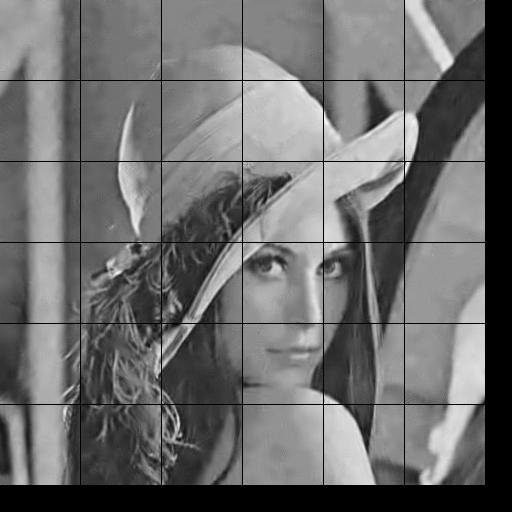
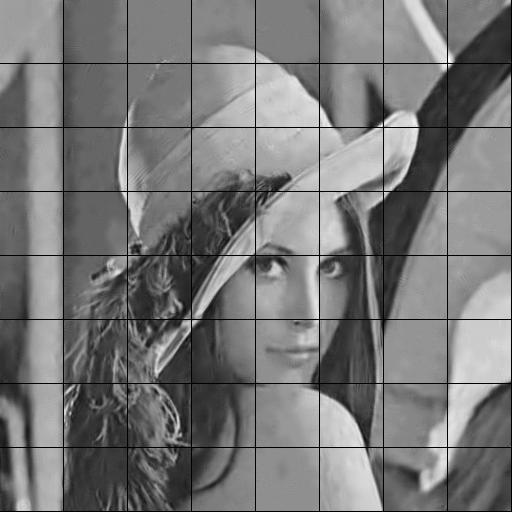
dimension modification

diff --git a/ImageDenoiser/src/denoiser/ImageUtils.java b/ImageDenoiser/src/denoiser/ImageUtils.java
@@ -106,30 +106,47 @@ public class ImageUtils {
         return result;
     }
     
-    public static List<ImageZone> decoupeImage(BufferedImage X, int W, int n) {
+    public static List<ImageZone> decoupeImage(BufferedImage image, int W, int pas) {
         List<ImageZone> zones = new ArrayList<>();
-        int width = X.getWidth();
-        int height = X.getHeight();
 
-        for (int y = 0; y <= height - W; y += n) {
-            for (int x = 0; x <= width - W; x += n) {
-                BufferedImage subImage = new BufferedImage(W, W, BufferedImage.TYPE_BYTE_GRAY);
-                WritableRaster subRaster = subImage.getRaster();
-                Raster originalRaster = X.getRaster();
+        int width = image.getWidth();
+        int height = image.getHeight();
 
-                for (int j = 0; j < W; j++) {
-                    for (int i = 0; i < W; i++) {
-                        int val = originalRaster.getSample(x + i, y + j, 0);
-                        subRaster.setSample(i, j, 0, val);
-                    }
-                }
-
-                zones.add(new ImageZone(subImage, x, y));
+        for (int y = 0; y <= height - W; y += pas) {
+            for (int x = 0; x <= width - W; x += pas) {
+                BufferedImage sub = image.getSubimage(x, y, W, W);
+                zones.add(new ImageZone(sub, x, y));
             }
+        }
+
+        // Ajout des zones de bordures droites (si image non divisible)
+        if ((width - W) % pas != 0) {
+            int x = width - W;
+            for (int y = 0; y <= height - W; y += pas) {
+                BufferedImage sub = image.getSubimage(x, y, W, W);
+                zones.add(new ImageZone(sub, x, y));
+            }
+        }
+
+        if ((height - W) % pas != 0) {
+            int y = height - W;
+            for (int x = 0; x <= width - W; x += pas) {
+                BufferedImage sub = image.getSubimage(x, y, W, W);
+                zones.add(new ImageZone(sub, x, y));
+            }
+        }
+
+        // Coin bas droit si nécessaire
+        if ((width - W) % pas != 0 && (height - W) % pas != 0) {
+            BufferedImage sub = image.getSubimage(width - W, height - W, W, W);
+            zones.add(new ImageZone(sub, width - W, height - W));
         }
 
         return zones;
     }
+
+
+
 
 
     
@@ -143,47 +160,39 @@ public class ImageUtils {
         return result;
     }
     
-    public static BufferedImage recomposeFromZones(List<ImageZone> zones, int fullWidth, int fullHeight) {
-        int[][] sum = new int[fullHeight][fullWidth];
-        int[][] count = new int[fullHeight][fullWidth];
+    public static BufferedImage recomposeFromZones(List<ImageZone> zones, int width, int height) {
+        BufferedImage result = new BufferedImage(width, height, BufferedImage.TYPE_BYTE_GRAY);
+        WritableRaster raster = result.getRaster();
+
+        double[][] sum = new double[height][width];
+        int[][] count = new int[height][width];
 
         for (ImageZone zone : zones) {
             BufferedImage img = zone.getImage();
-            Raster raster = img.getRaster();
-            int[] pos = zone.getPosition();
-            int offsetX = pos[0];
-            int offsetY = pos[1];
+            int offsetX = zone.getPosition()[0];
+            int offsetY = zone.getPosition()[1];
+            Raster zoneRaster = img.getRaster();
 
-            int w = img.getWidth();
-            int h = img.getHeight();
-
-            for (int y = 0; y < h; y++) {
-                for (int x = 0; x < w; x++) {
-                    int val = raster.getSample(x, y, 0);
-                    int globalX = offsetX + x;
-                    int globalY = offsetY + y;
-
-                    if (globalX < fullWidth && globalY < fullHeight) {
-                        sum[globalY][globalX] += val;
-                        count[globalY][globalX]++;
-                    }
+            for (int y = 0; y < img.getHeight(); y++) {
+                for (int x = 0; x < img.getWidth(); x++) {
+                    int val = zoneRaster.getSample(x, y, 0);
+                    sum[offsetY + y][offsetX + x] += val;
+                    count[offsetY + y][offsetX + x]++;
                 }
             }
         }
 
-        BufferedImage result = new BufferedImage(fullWidth, fullHeight, BufferedImage.TYPE_BYTE_GRAY);
-        WritableRaster resultRaster = result.getRaster();
-
-        for (int y = 0; y < fullHeight; y++) {
-            for (int x = 0; x < fullWidth; x++) {
-                int val = (count[y][x] == 0) ? 0 : (sum[y][x] / count[y][x]);
-                resultRaster.setSample(x, y, 0, val);
+        for (int y = 0; y < height; y++) {
+            for (int x = 0; x < width; x++) {
+                int val = (count[y][x] > 0) ? (int) Math.round(sum[y][x] / count[y][x]) : 0;
+                raster.setSample(x, y, 0, Math.max(0, Math.min(255, val)));
             }
         }
 
-        result.setData(resultRaster);
+        result.setData(raster);
         return result;
     }
+
 
 
 

diff --git a/ImageDenoiser/src/denoiser/Main.java b/ImageDenoiser/src/denoiser/Main.java
@@ -13,14 +13,14 @@ public class Main {
     public static void main(String[] args) {
         try {
             // 1. Chargement de l'image originale
-            BufferedImage original = loadImage("ImageDenoiser/images_sources/lena.jpeg");
+            BufferedImage original = loadImage("ImageDenoiser/images_sources/image.jpeg");
 
             // 2. Ajout de bruit
-            double sigma = 25.0;
+            double sigma = 20.0;
             BufferedImage noisy = ImageUtils.noising(original, sigma);
-            saveImage(noisy, "ImageDenoiser/images_bruitees/lena_noisy_sigma" + (int) sigma + ".jpeg");
+            saveImage(noisy, "ImageDenoiser/images_bruitees/image_noisy_sigma" + (int) sigma + ".jpeg");
 
-            localDenoising(8, sigma, noisy, original);
+            localDenoising(9, sigma, noisy, original);
            
 
         } catch (Exception e) {
@@ -105,12 +105,20 @@ public class Main {
     }
     
     public static void localDenoising(int s, double sigma, BufferedImage noisy, BufferedImage original) throws IOException {
-        int W = 64;
-        int pas = 64;
+        int height = noisy.getHeight();
+        int width = noisy.getWidth();
 
+        int minDim = Math.min(width, height);
+
+        // Taille des sous-images = moitié de la plus petite dimension
+        int W = minDim / 2;
+        // Pas = W / 2 = 1/4 de la dimension
+        int pas = W / 2;
+
+        System.out.println("Taille image : " + width + "x" + height + ", W = " + W + ", pas = " + pas);
+        
         List<ImageZone> zones = ImageUtils.decoupeImage(noisy, W, pas);
 
-        // Préparation des listes pour les 4 méthodes
         List<List<ImageZone>> zonesParMethode = new ArrayList<>();
         for (int i = 0; i < 4; i++) zonesParMethode.add(new ArrayList<>());
 
@@ -123,7 +131,6 @@ public class Main {
             int offsetX = zone.getPosition()[0];
             int offsetY = zone.getPosition()[1];
 
-            // Pipeline
             List<Patch> patches = ImageUtils.extractPatches(subImage, s);
             List<double[]> vectors = patches.stream().map(Patch::toVector).toList();
             ACPResult acpResult = ACP.computeACP(vectors);
@@ -155,10 +162,8 @@ public class Main {
             }
         }
 
-        // Recomposition, sauvegarde et évaluation
         String sigmaDir = "ImageDenoiser/images_reconstruites/sigma" + (int) sigma + "/";
         new File(sigmaDir).mkdirs();
-
         FileWriter fw = new FileWriter(sigmaDir + "resultats_local.txt");
         PrintWriter pw = new PrintWriter(fw);
 
@@ -177,6 +182,7 @@ public class Main {
         pw.close();
         System.out.println("Traitement local terminé pour sigma = " + sigma + ".");
     }
+
 
 
 
